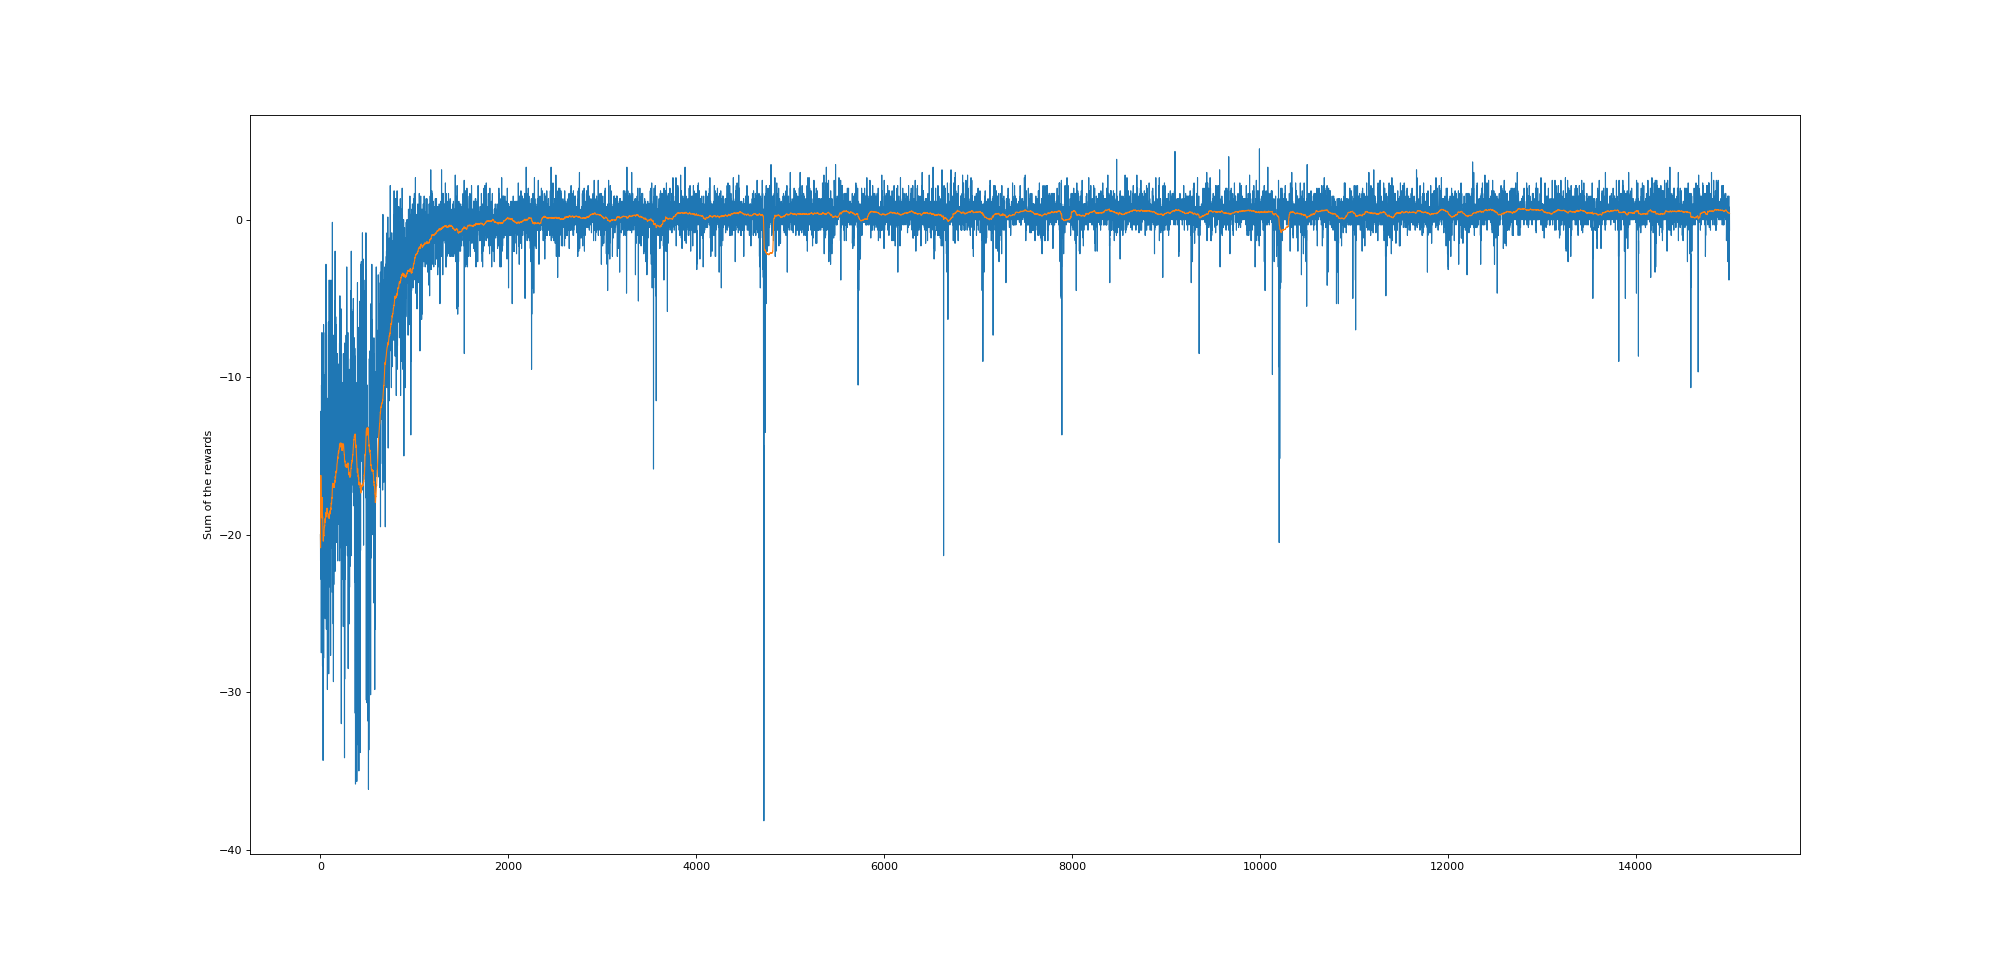
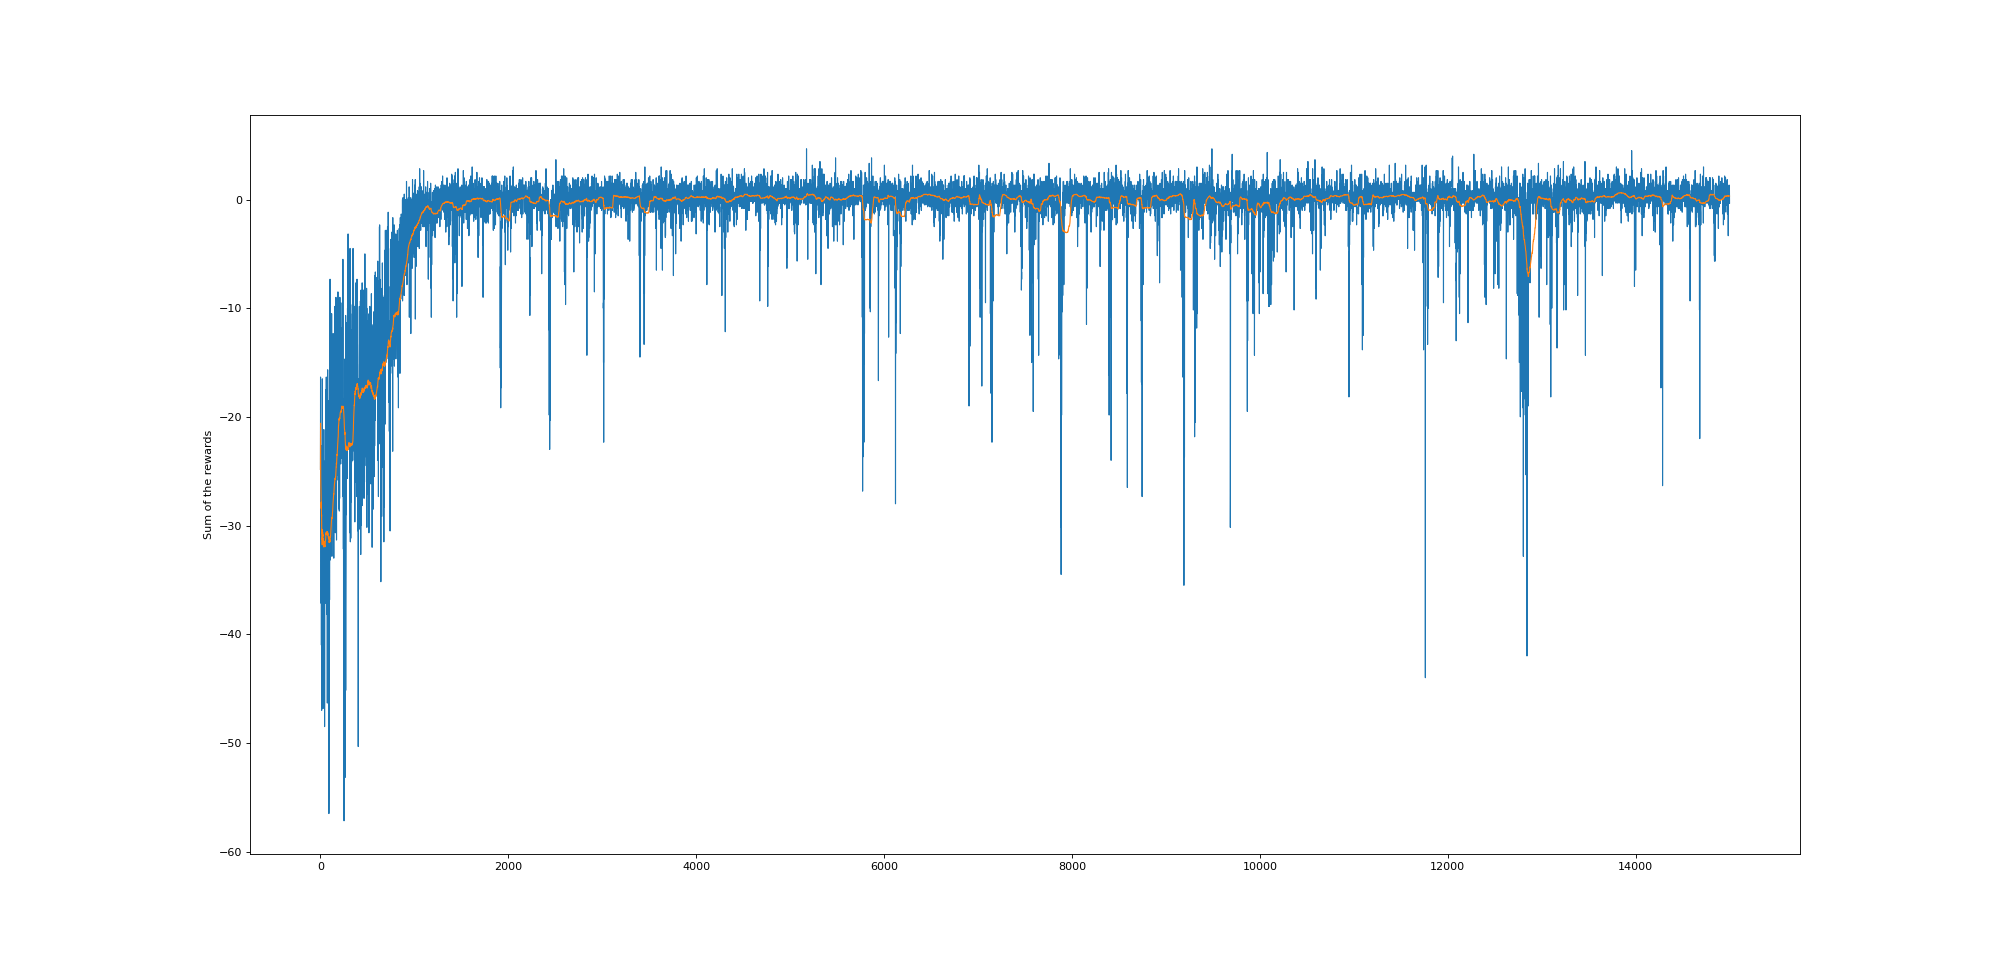
changed behavior of agents when in edges + grad clipping R

Changed region(s): [[0.155, 0.1562, 0.868, 0.8125]]

diff --git a/python/MesaModel.py b/python/MesaModel.py
@@ -72,22 +72,22 @@ class MesaAgent(Agent):
     def change_next_position_with_action(self):
         if(self.action==0):
             if(self.pos[0] == self.model.grid.width-1):
-                self.next_position = (self.pos[0]-1, self.pos[1])
+                self.next_position = (self.pos[0], self.pos[1])
             else:
                 self.next_position = (self.pos[0]+1, self.pos[1])
         elif(self.action==1):
             if(self.pos[0] == 0):
-                self.next_position = (self.pos[0]+1, self.pos[1])
+                self.next_position = (self.pos[0], self.pos[1])
             else:
                 self.next_position = (self.pos[0]-1, self.pos[1])
         elif(self.action==2):
             if(self.pos[1] == self.model.grid.height-1):
-                self.next_position = (self.pos[0], self.pos[1]-1)
+                self.next_position = (self.pos[0], self.pos[1])
             else:
                 self.next_position = (self.pos[0], self.pos[1]+1)
         elif(self.action==3):
             if(self.pos[1] == 0):
-                self.next_position = (self.pos[0], self.pos[1]+1)
+                self.next_position = (self.pos[0], self.pos[1])
             else:
                 self.next_position = (self.pos[0], self.pos[1]-1)
         else:

diff --git a/python/REINFORCEAgent.py b/python/REINFORCEAgent.py
@@ -60,10 +60,12 @@ class REINFORCEAgent():
         logprob = torch.log(self.actor(state_tensor))
         selected_logprobs = reward_tensor * torch.index_select(logprob, 1, action_tensor).diag()
         loss = -selected_logprobs.mean()
-        #print(loss.item())
+        '''print()
+        print(loss.item())'''
         
         # Calculate gradients
         loss.backward()
+        torch.nn.utils.clip_grad_norm_(self.actor.parameters(), .5)
         # Apply gradients
         self.optimizer.step()
 
